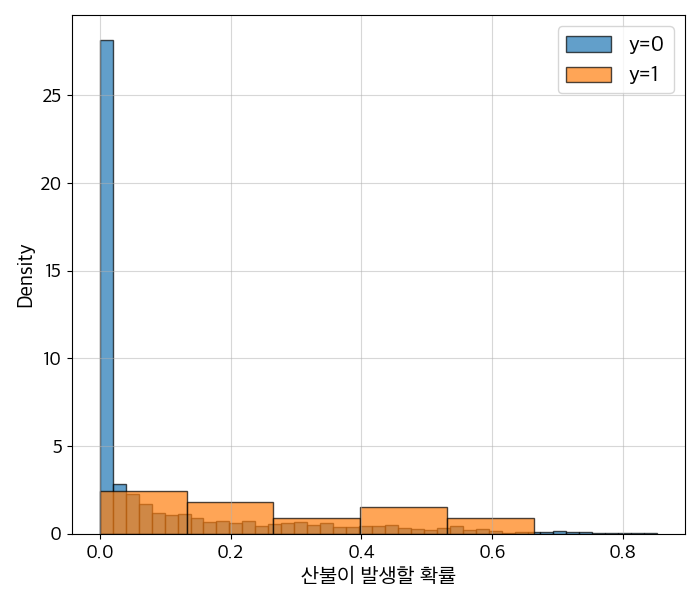
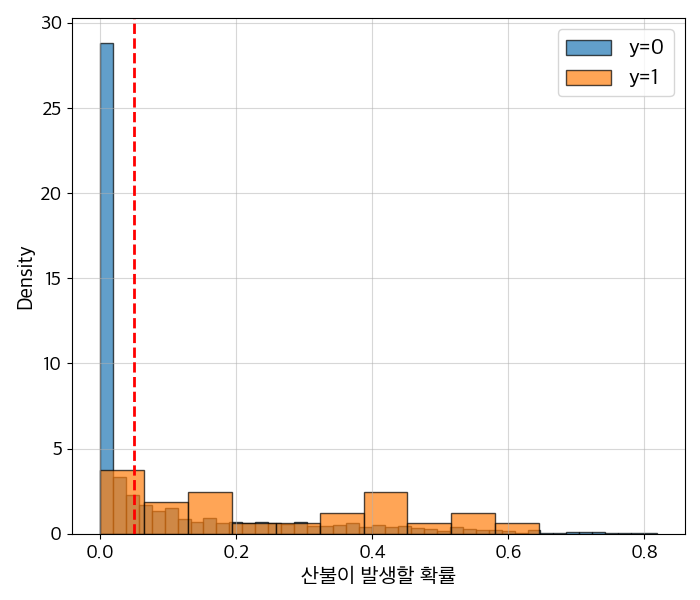
update

diff --git a/15_cls_model.py b/15_cls_model.py
@@ -68,7 +68,7 @@ prob = pd.Series(selection_prob, index=X.columns).sort_values(ascending=False)
 prob.head(20)
 #%%
 pi_thr = 0.7
-stable_selected = prob[prob >= pi_thr].sort_index()
+stable_selected = prob[prob >= pi_thr]
 print("최종적으로 선택된 변수 개수:", len(stable_selected))
 stable_selected
 #%%
@@ -108,51 +108,6 @@ y_test = df_test["target"]
 #%%
 y_test_prob = best_model.predict_proba(X_test)[:, 1]
 #%%
-plt.figure(figsize=(7, 6))
-plt.hist(
-    y_test_prob,
-    bins="sqrt",
-    alpha=0.7,
-    edgecolor="black"
-)
-plt.xlabel("산불이 발생할 확률", fontsize=15)
-plt.ylabel("Count", fontsize=15)
-plt.xticks(fontsize=14)
-plt.yticks(fontsize=14)
-plt.grid(alpha=0.5)
-plt.tight_layout()
-plt.savefig("./fig/15_cls_prob_hist.png")
-plt.show()
-plt.close()
-#%%
-plt.figure(figsize=(7, 6))
-plt.hist(
-    y_test_prob[y_test==0],
-    bins="sqrt",
-    alpha=0.7,
-    label="y=0",
-    density=True,
-    edgecolor="black"
-)
-plt.hist(
-    y_test_prob[y_test==1],
-    bins="sqrt",
-    alpha=0.7,
-    label="y=1",
-    density=True,
-    edgecolor="black"
-)
-plt.xlabel("산불이 발생할 확률", fontsize=15)
-plt.ylabel("Density", fontsize=15)
-plt.xticks(fontsize=14)
-plt.yticks(fontsize=14)
-plt.grid(alpha=0.5)
-plt.legend(fontsize=16)
-plt.tight_layout()
-plt.savefig("./fig/15_cls_prob_hist_bylabel.png")
-plt.show()
-plt.close()
-#%%
 t = 0.05
 y_pred = (y_test_prob >= t).astype(int)
 
@@ -170,9 +125,41 @@ print(f"F1 = {f1:.4f}")
 print(f"ROC-AUC = {roc_auc:.4f}")
 print(f"PR-AUC = {pr_auc:.4f}")
 #%%
+y_pred.sum()
+y_test.sum()
+#%%
 importance_df = pd.DataFrame({
     "설명변수(선택된)": stable_selected.index,
     "중요도": best_model.feature_importances_
 }).sort_values("중요도", ascending=False)
 print(importance_df)
+#%%
+plt.figure(figsize=(7, 6))
+plt.hist(
+    y_test_prob[y_test==0],
+    bins="sqrt",
+    alpha=0.7,
+    label="y=0",
+    density=True,
+    edgecolor="black"
+)
+plt.hist(
+    y_test_prob[y_test==1],
+    bins=10,
+    alpha=0.7,
+    label="y=1",
+    density=True,
+    edgecolor="black"
+)
+plt.axvline(t, linewidth=2, color='red', linestyle='--')
+plt.xlabel("산불이 발생할 확률", fontsize=15)
+plt.ylabel("Density", fontsize=15)
+plt.xticks(fontsize=14)
+plt.yticks(fontsize=14)
+plt.grid(alpha=0.5)
+plt.legend(fontsize=16)
+plt.tight_layout()
+plt.savefig("./fig/15_cls_prob_hist_bylabel.png")
+plt.show()
+plt.close()
 #%%
